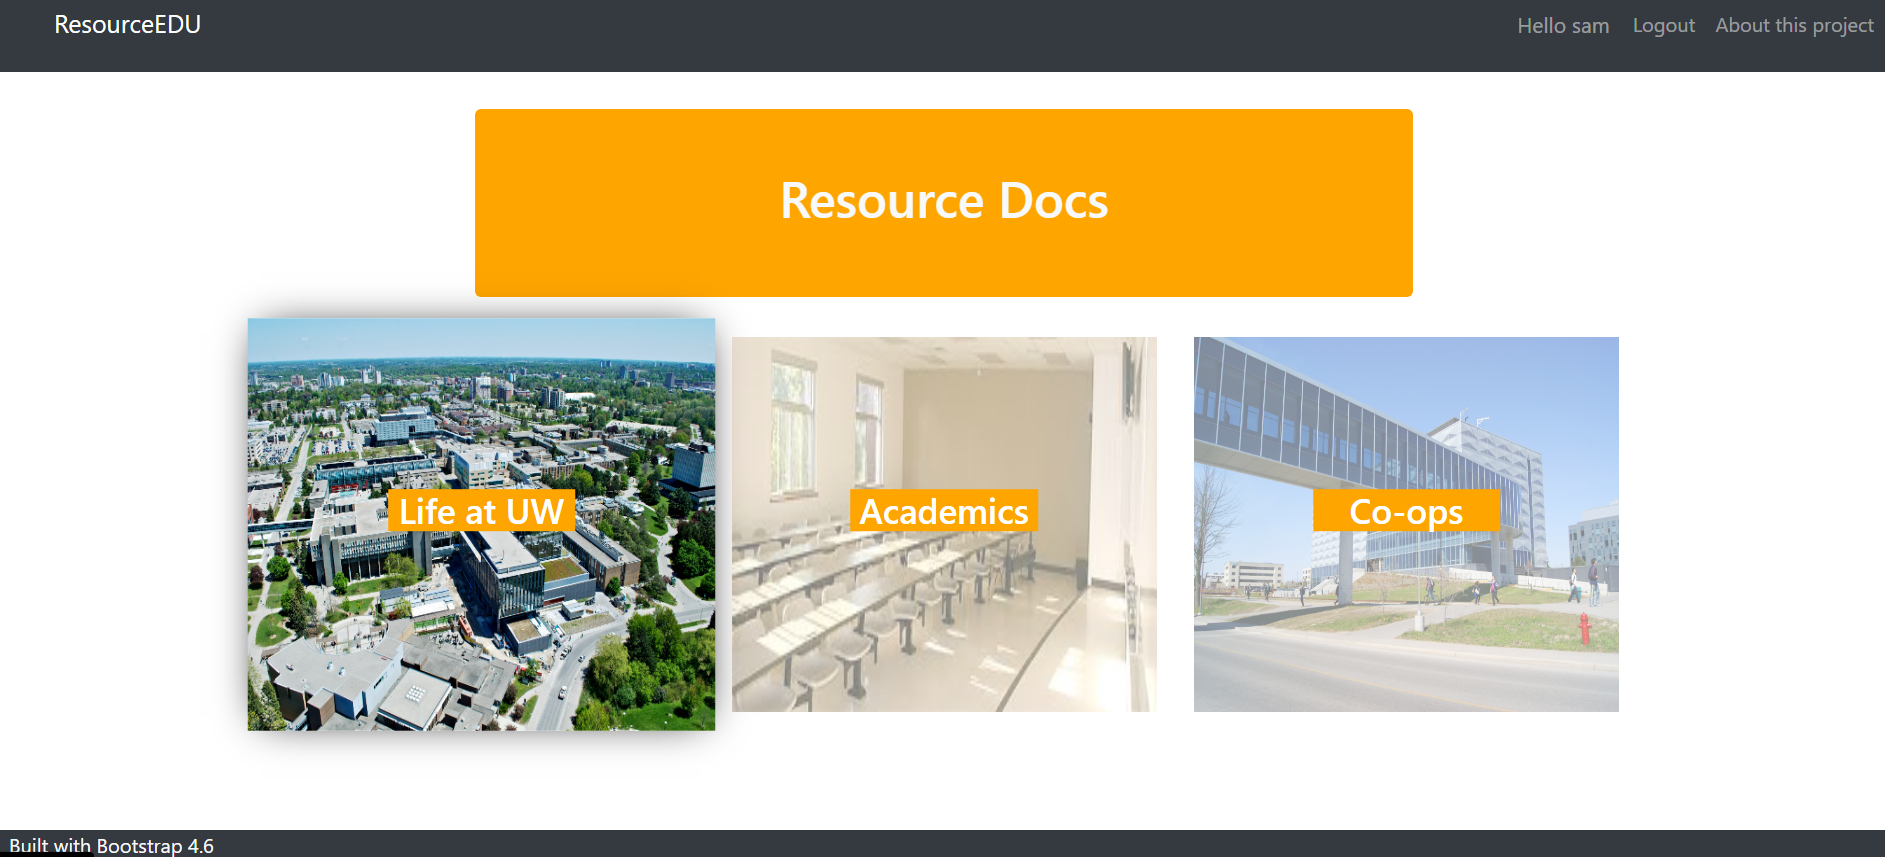
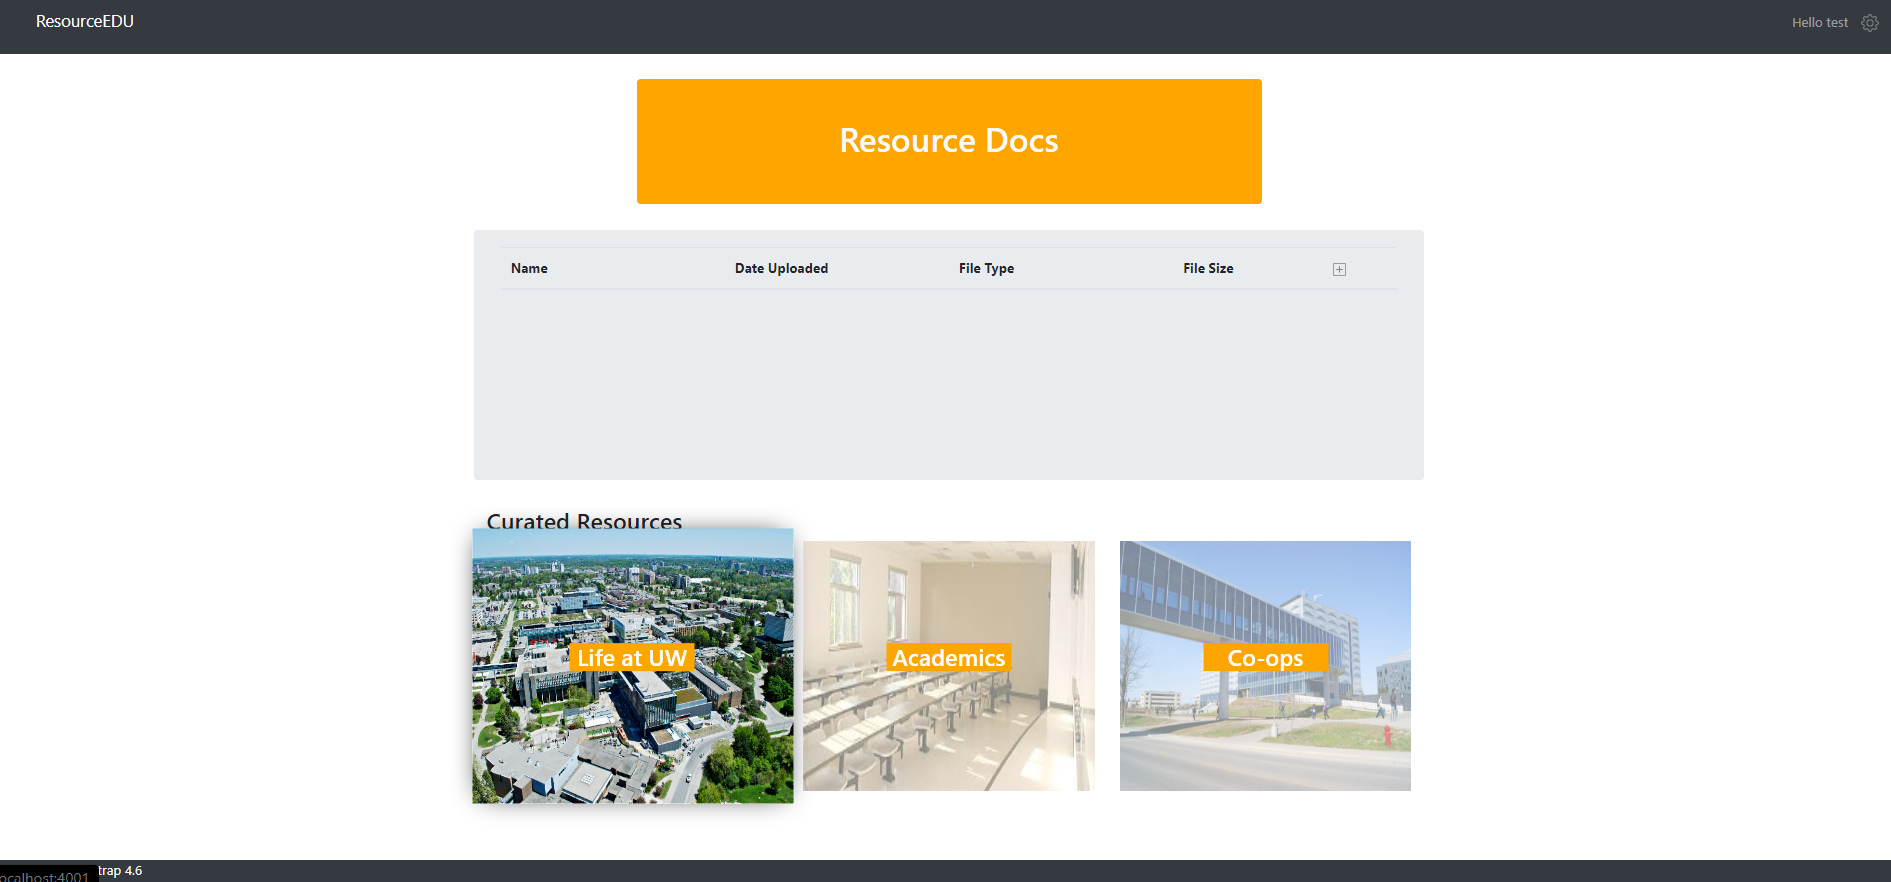
upload Interface

diff --git a/frontend/src/js/views/dashboard.jsx b/frontend/src/js/views/dashboard.jsx
@@ -4,13 +4,75 @@ import Nav from "../components/nav.jsx"
 import Footer from "../components/footer.jsx"
 
 import LoginStore from "../api/login";
+import DocumentStore from "../api/login";
 import '../../css/dashboard.css';
+
+import plus from "../../static/icons/plus.svg"
 
 import learn from "../../static/learn.png"
 import coop from "../../static/coop.png"
 import lifestyle from "../../static/uwlife.png"
 
 export default class LoginHome extends React.Component {
+    constructor(props) {
+        super(props);
+
+        this.state = {
+            data: [],
+        };
+
+        this.fileRef = React.createRef();
+    }
+
+    uploadFileHandler = (event) => {
+        let data = this.state.data;
+
+        let displayFile = {
+            name: event.target.files[0].name,
+            dateUploaded: this.getCurrentDate(),
+            fileType: event.target.files[0].name.split('.').pop(),
+            fileSize: this.formatBytes(event.target.files[0].size),
+        }
+
+        data.push(displayFile);
+
+        const fileData = new FormData();
+        fileData.append("file", event.target.files[0]);
+
+        // await DocumentStore.upload(fileData);
+
+        this.setState({
+            data: data,
+        });
+    }
+    
+    fileClickHandler = () => {
+        this.fileRef.current.click();
+    }
+
+    getCurrentDate() {
+        let today = new Date();
+
+        let day = today.getDate().toString().padStart(2, '0');
+        let month = (today.getMonth() + 1).toString().padStart(2, '0');
+        let year = today.getFullYear();
+
+        return `${month}/${day}/${year}`;
+    }
+
+    //Community byte calculator
+   formatBytes(bytes, decimals = 2) {
+        if (bytes === 0) return '0 Bytes';
+    
+        const k = 1024;
+        const dm = decimals < 0 ? 0 : decimals;
+        const sizes = ['Bytes', 'KB', 'MB', 'GB', 'TB', 'PB', 'EB', 'ZB', 'YB'];
+    
+        const i = Math.floor(Math.log(bytes) / Math.log(k));
+    
+        return parseFloat((bytes / Math.pow(k, i)).toFixed(dm)) + ' ' + sizes[i];
+    }
+
     renderNav() {
         const user = LoginStore.getCurrentUser().username;
 
@@ -18,6 +80,44 @@ export default class LoginHome extends React.Component {
             <Nav
                 user={user}
             />
+        )
+    }
+
+    renderStorageLinks() {
+        return(
+            <div>
+                <div className="row jumbotron dashboard-file-container">
+                    <table className="table">
+                        <thead>
+                            <tr className="d-flex">
+                                <th className="col-3" scope="col">Name</th>
+                                <th className="col-3" scope="col">Date Uploaded</th>
+                                <th className="col-3" scope="col">File Type</th>
+                                <th className="col-2" scope="col">File Size</th>
+                                <th className="col-1" scope="col">
+                                    <img className="dropdown-toggle" type="button" id="drop" data-toggle="dropdown" src={plus} alt="plus" />
+                                    <div className="dropdown-menu">
+                                        <input style={{display: 'none'}} ref={this.fileRef} accept=".pdf, .png, .jpg, .mp3, .mp4, .xls, .doc,.docx" type="file" onChange={this.uploadFileHandler}/>
+                                        <div className="dropdown-item" onClick={this.fileClickHandler}>Add File</div>
+                                    </div>
+                                </th>
+                            </tr>
+                        </thead>
+                        <tbody>
+                            {this.state.data.map((file)=> (
+                                    <tr className="d-flex dashboard-table-container" key={file.name}>
+                                        <td className="col-3">{file.name}</td>
+                                        <td className="col-3">{file.dateUploaded}</td>
+                                        <td className="col-3">{file.fileType}</td>
+                                        <td className="col-2">{file.fileSize}</td>
+                                        <td className="col-1"/>
+                                    </tr>
+                                ))
+                            }
+                        </tbody>
+                    </table>
+                </div>
+            </div>
         )
     }
 
@@ -36,7 +136,9 @@ export default class LoginHome extends React.Component {
                         <h1>Resource Docs</h1>
                     </div>
                     <div className="container">
-                        <div className="d-flex" id="dashboard-link-color">
+                        {this.renderStorageLinks()}
+                        <h3>Curated Resources</h3>
+                        <div className="d-flex row" id="dashboard-link-color">
                             <a href="/" className="col-sm-4 justify-content-center align-items-center">
                                 <img src={lifestyle} alt="lifestyle" className="dashboard-images"/>
                                 <div className="dashboard-text-container">
@@ -56,6 +158,7 @@ export default class LoginHome extends React.Component {
                                 </div>
                             </a>
                         </div>
+                        <br/>
                     </div>
                 </div>
                 {this.renderFooter()}

diff --git a/frontend/src/js/views/mainPage.jsx b/frontend/src/js/views/mainPage.jsx
@@ -3,15 +3,21 @@ import React from "react";
 import Nav from "../components/nav.jsx"
 import Footer from "../components/footer.jsx"
 
+import LoginStore from "../api/login";
 import '../../css/mainpage.css';
+
 import video from "../../static/test.mp4";
 
 export default class MainPage extends React.Component {
   renderNav() {
-      return (
-          <Nav />
-      )
-  }
+    const user = LoginStore.getCurrentUser()?.username;
+
+    return(
+        <Nav
+            user={user}
+        />
+    )
+}
 
   renderFooter() {
       return (
@@ -28,10 +34,7 @@ export default class MainPage extends React.Component {
               Github
             </a>
             <a className="list-group-item list-group-item-action" href="https://docs.google.com/document/d/1k1z6zoMlGZnGI0lVxAFdIeLqrFFSv6z9KVPk8ZyZseI/edit?usp=sharing">
-              Documentation
-            </a>
-            <a className="list-group-item list-group-item-action" href="https://www.figma.com/file/wax2LoqMRlTQoQFIIcxhwT/ResourceEDU?node-id=0%3A1">
-              Design
+              Design Doc
             </a>
         </div>
       </div>

diff --git a/frontend/src/js/components/nav.jsx b/frontend/src/js/components/nav.jsx
@@ -21,9 +21,10 @@ export default class Nav extends React.Component {
                 }
                 {this.props.user 
                     ?   <li className="nav-item dropdown">
-                            <img className="nav-settings-icon dropdown-toggle" type="button" id="drop" data-toggle="dropdown" aria-haspopup="true" aria-expanded="false" src={gear} alt="gear" />
+                            <img className="nav-settings-icon dropdown-toggle" type="button" id="drop" data-toggle="dropdown" src={gear} alt="gear" />
                             <div className="dropdown-menu dropdown-menu-right">
-                                <a className="dropdown-item" href="/dashboard" >Home</a>
+                                <a className="dropdown-item" href="/">Home</a>
+                                <a className="dropdown-item" href="/dashboard">Dashboard</a>
                                 <a className="dropdown-item" href="/about">About this project</a>
                                 <a className="dropdown-item" onClick={LoginStore.logout} href='/'>Logout</a>
                             </div>

diff --git a/frontend/src/js/views/register.jsx b/frontend/src/js/views/register.jsx
@@ -8,11 +8,15 @@ import Footer from "../components/footer.jsx"
 import RegisterStore from "../api/register";
 
 export default class Register extends React.Component {
-    state = {
-        username: "",
-        password: "",
-        confirm: "",
-        registerfail: false
+    constructor(props) {
+        super(props);
+
+        this.state = {
+            username: "",
+            password: "",
+            confirm: "",
+            registerfail: false
+        };
     }
     
     fieldHandler = (event) => {
@@ -25,13 +29,13 @@ export default class Register extends React.Component {
     }
 
     usernameCheck(username) {
-        var characters = /[!@#$%^&*()+\-=\[\]{};':"\\|,<>\/? ]+/;
+        var characters = /^[\w.-]*$/;
 
         if(characters.test(username)) {
-            return false;
+            return true;
         }
         
-        return true;
+        return false;
     }
 
     registerHandler = async () => {

diff --git a/frontend/src/js/api/login.js b/frontend/src/js/api/login.js
@@ -5,16 +5,16 @@ const login = {
                 method: "POST",
                 headers: {"Content-Type":"application/json"},
                 body: JSON.stringify(loginData)
-            }
-    
+            };
+
             fetch("/signin", requestBody)
             .then((res) => {
                 if(res.ok) resolve(res.json());
                 else if(res.status === 401) resolve("Authentication Denied");
-                else reject(new Error("Error"));
+                else reject("Error");
             }).catch((error) => {
                 reject(error);
-            })
+            });
         }).then((res) => {
             if(res.token) {
                 localStorage.setItem("user", JSON.stringify(res));

diff --git a/frontend/src/js/api/documents.js b/frontend/src/js/api/documents.js
@@ -1,0 +1,19 @@
+const documents = {
+    upload(formData) {
+        return new Promise((resolve, reject) => {
+            const requestBody = {
+                method: "POST",
+                body: formData
+            };
+
+            fetch("/upload", requestBody)
+            .then((res) => {
+                if(res.ok) resolve(res.json());
+            }).catch((error) => {
+                reject(error);
+            });
+        });
+    }
+}
+
+export default documents;

diff --git a/frontend/src/css/dashboard.css b/frontend/src/css/dashboard.css
@@ -60,6 +60,25 @@ a:hover .dashboard-images{
   width: 150px;
 }
 
+.dashboard-file-container {
+  margin-top: 30px;
+  padding-top: 20px;
+  min-height: 300px;
+  width: 1140px;
+}
+
+.dashboard-table-container {
+  min-height: 50px;
+}
+
+.dashboard-table-container th,
+.dashboard-table-container td
+{
+  overflow: hidden;
+  text-overflow: ellipsis;
+  white-space: nowrap;
+}
+
 .dashboard-text {
   position: relative;
   text-align: center;

diff --git a/frontend/src/js/views/login.jsx b/frontend/src/js/views/login.jsx
@@ -8,10 +8,14 @@ import "../../css/login.css"
 import LoginStore from "../api/login";
 
 export default class Login extends React.Component {
-    state = {
-        username: "",
-        password: "",
-        loginfailed: false
+    constructor(props) {
+        super(props);
+
+        this.state = {
+            username: "",
+            password: "",
+            loginfailed: false
+        };
     }
 
     fieldHandler = (event) => {

diff --git a/frontend/src/js/api/register.js b/frontend/src/js/api/register.js
@@ -10,6 +10,7 @@ const register = {
             fetch("/signup", requestBody)
             .then((res) => {
                 if(res.ok) window.location.replace("/login");
+                else if(res.status === 400) resolve("Username Taken");
             }).catch((error) => {
                 reject(error);
             })

diff --git a/backend/guide/src/main/java/com/edu/guide/controller/FileController.java b/backend/guide/src/main/java/com/edu/guide/controller/FileController.java
@@ -1,0 +1,33 @@
+package com.edu.guide.controller;
+
+import org.springframework.http.ResponseEntity;
+import org.springframework.web.bind.annotation.*;
+import org.springframework.web.multipart.MultipartFile;
+
+@RequestMapping(value = "/file")
+public class FileController {
+
+    @PostMapping("/upload")
+    public ResponseEntity<?> uploadFile(@RequestParam("file") MultipartFile multipartFile) {
+        //TODO: Need to implement necessary aws s3 storage api
+        return ResponseEntity.ok("Upload Successful");
+    }
+
+    @GetMapping("/get")
+    public ResponseEntity<?> getFile() {
+        //TODO: Get api
+        return ResponseEntity.ok("GET FILE RETURNED HERE");
+    }
+
+    @PostMapping("/update")
+    public ResponseEntity<?> updateFile() {
+        //TODO: update api
+        return ResponseEntity.ok("File Updated Successfully");
+    }
+
+    @PostMapping("/delete")
+    public ResponseEntity<?> deleteFile() {
+        //TODO: Delete api
+        return ResponseEntity.ok("File Deleted Successfully");
+    }
+}
